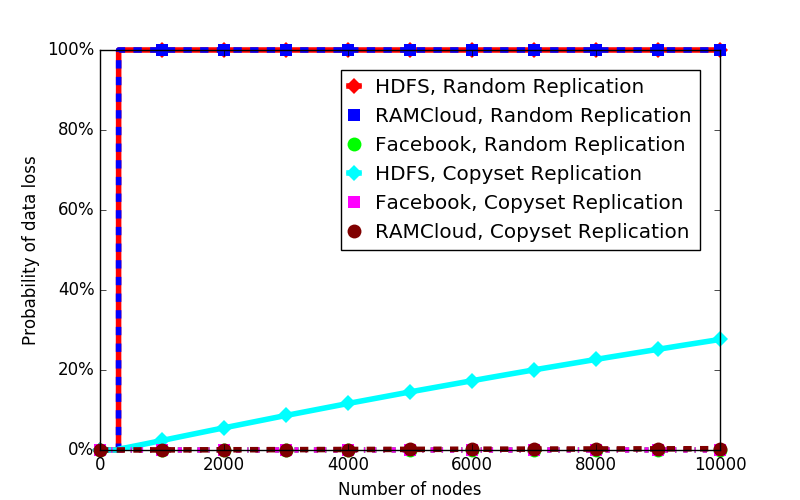
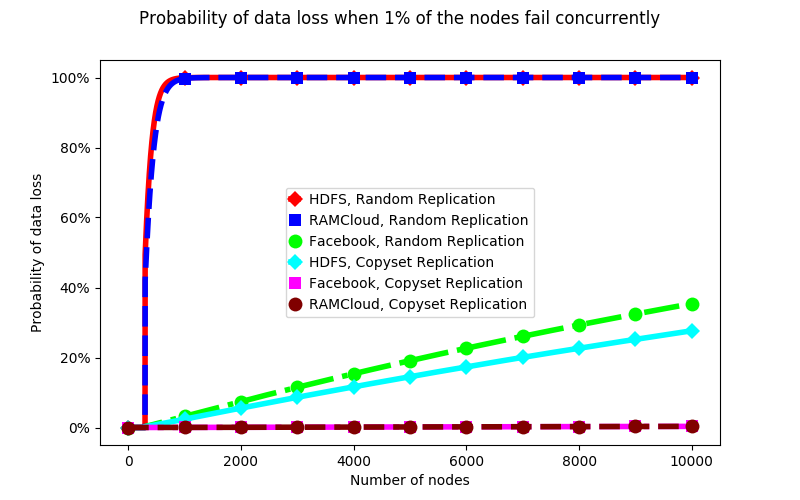
Added Facebook computation
Facebook random and HDFS copyset look too close on graph.

Changed region(s): [[0.0312, 0.06, 0.9375, 0.99], [0.1562, 0.0, 0.8438, 0.06]]

diff --git a/Facebook.py b/Facebook.py
@@ -1,4 +1,5 @@
 import Replication
+import scipy.misc
 
 class FacebookScheme(Replication.ReplicationScheme):
    def __init__(self, *args, **kwargs):
@@ -9,8 +10,14 @@ class FacebookScheme(Replication.ReplicationScheme):
 
 class FacebookRandomScheme(FacebookScheme):
    def probabilityOfDataLoss(self, numNodes):
-      # TODO
-      return 0
+      # compute the probability
+      numFailedNodes = 0.01 * numNodes
+      failedCombos = scipy.misc.comb(numFailedNodes, self.replicationFactor)
+      totalCopysets = scipy.misc.comb(numNodes, self.replicationFactor)
+      numCopysets = scipy.misc.comb(self.scatterWidth, self.replicationFactor - 1) * numNodes
+      probOfDataLoss = 1.0 - (1.0 - numCopysets / totalCopysets) ** failedCombos
+
+      return probOfDataLoss
 
    def plotInfo(self):
       return Replication.PlotInfo('Facebook, Random Replication',
@@ -19,8 +26,11 @@ class FacebookRandomScheme(FacebookScheme):
 
 class FacebookCopysetScheme(FacebookScheme):
    def probabilityOfDataLoss(self, numNodes):
-      # TODO
-      return 0
+      # compute the probability
+      scatterWidth = self.replicationFactor - 1
+
+      return self.copysetReplicationDataLoss(
+         numNodes, self.chunksPerNode, self.replicationFactor, scatterWidth)
 
    def plotInfo(self):
       return Replication.PlotInfo('Facebook, Copyset Replication',

diff --git a/Replication.py b/Replication.py
@@ -18,8 +18,7 @@ class ReplicationScheme(object):
       failedCombos = scipy.misc.comb(numFailedNodes, replicationFactor)
       totalCombos = scipy.misc.comb(numNodes, replicationFactor)
       probOfLosingChunk = failedCombos / totalCombos
-      numChunks = numNodes * chunksPerNode
-      probOfDataLoss = 1.0 - (1.0 - probOfLosingChunk) ** (numNodes * numChunks)
+      probOfDataLoss = 1.0 - (1.0 - probOfLosingChunk) ** (numNodes * chunksPerNode)
 
       return probOfDataLoss
 

diff --git a/Main.py b/Main.py
@@ -71,8 +71,9 @@ def generateDiagram(schemePlotInfos, data, groupSize=None):
       print ''
 
 def generateFigure6(schemePlotInfos, data):
-   # set dimensions
-   plt.figure(figsize=(8, 5))
+   # set dimensions and title
+   fig = plt.figure(figsize=(8, 5))
+   fig.suptitle('Probability of data loss when 1% of the nodes fail concurrently')
 
    # add data
    for key, schemePlotInfo in schemePlotInfos:
